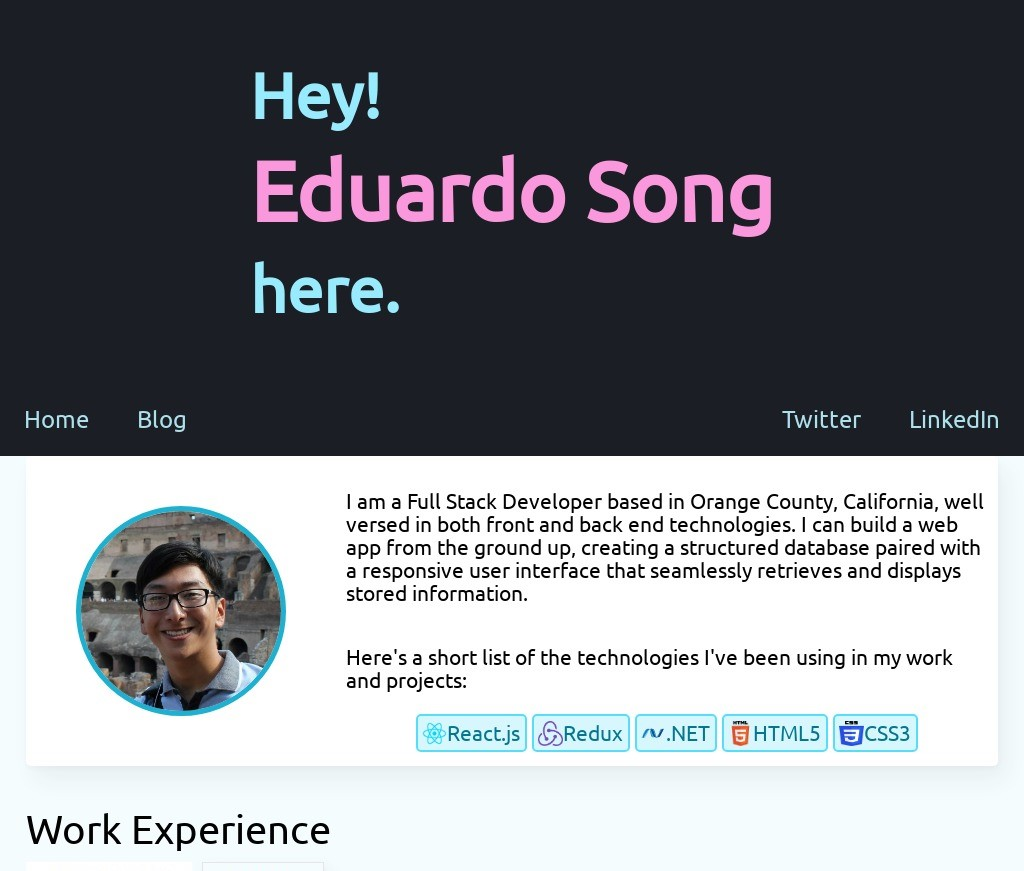
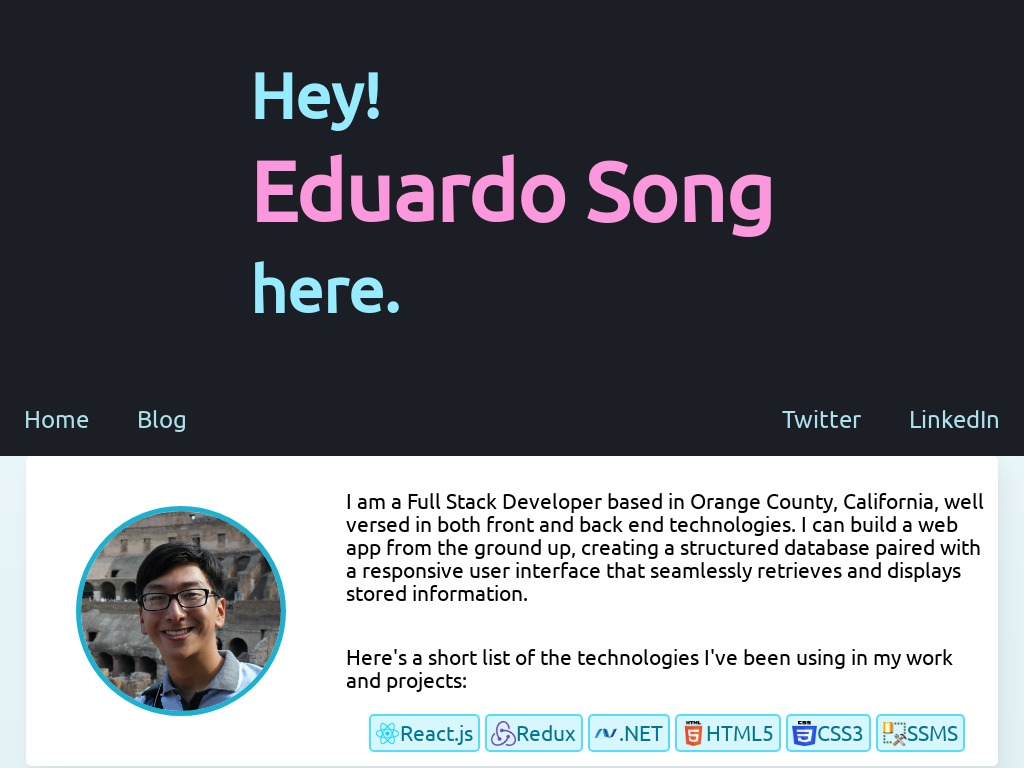
Completed basic projects component, touched up footer

Changed region(s): [[0.0, 0.4688, 1.0, 1.0], [0.25, 0.0625, 0.75, 0.4062]]

diff --git a/src/components/common/projects/projects.jsx b/src/components/common/projects/projects.jsx
@@ -1,7 +1,7 @@
 import React, { Component } from 'react';
 import './projects.css';
 import '../../../App.css'
-import PersWebImg from './edsongweb.jpg'
+// import EdSongWeb from './edsongweb.jpg';
 
 class Projects extends Component {
     render () {
@@ -10,24 +10,39 @@ class Projects extends Component {
                 <div className='animated fadeIn delay-075s content-item'>
                     <p className='content-title'>Projects</p>
                     <div className='project-box'>
-                        <div className='project-item'>
-                            <img href={PersWebImg} alt='eduardo song web site'/>
+                        <div className='animated project-item'>
+                            <div className='project-img'/>
                             <div className="project-title-nav">
                                 <h3>Personal Website</h3>
                                 <ul className='project-nav'>
                                     <li className='proj-nav-item'>
-                                        <a href='/'>Github</a>
+                                        <a href='https://github.com/eduardosong/edsong' target='_blank' rel="noopener noreferrer">Github</a>
                                     </li>
                                     <li className='proj-nav-item'>
-                                        <a href='/'>Live</a>
+                                        <a href='https://dreamy-yonath-b0ccf0.netlify.com/' target='_blank' rel="noopener noreferrer">Live</a>
                                     </li>
                                 </ul>
                             </div>
-                            <p className='project-text'>This is a website I created. This is a website I created. This is a website I created. This is a website I created. This is a website I created. This is a website I created. 
-                            This is a website I created. This is a website I created. This is a website I created. This is a website I created. This is a website I created. This is a website I created. 
+                            <p className='project-text'>The very website you're on. Designed to be simple and sleek while being easy on the eyes. 
                             </p>
+                            <ul className='skills-list'>
+                                <li className='skills-wrap'>
+                                    <img className='skills-icon' src='https://bit.ly/2NWyPFj' alt='logo of reactjs'/>
+                                    <span>React.js</span>
+                                </li>
+                                <li className='skills-wrap'>
+                                    <img className='skills-icon' src='https://bit.ly/2CrLZVu' alt='logo of html5'/>
+                                    <span>HTML5</span>
+                                </li>
+                                <li className='skills-wrap'>
+                                    <img className='skills-icon' src='https://bit.ly/36OM2Zx' alt='logo of css3'/>
+                                    <span>CSS3</span>
+                                </li>
+
+                            </ul>
                         </div>
                     </div>
+                    
                 </div>
             </React.Fragment>
         )

diff --git a/src/App.css b/src/App.css
@@ -13,6 +13,30 @@ background: linear-gradient(180deg, rgba(243,252,255,1) 0%, rgba(207,229,232,1) 
   width: 100%;
 }
 
+.skills-list{
+  display:flex;
+  justify-content: center;
+  flex-wrap:wrap;
+  flex-direction:row;
+}
+
+.skills-icon{
+  height:25px;
+  width: 25px;
+}
+
+.skills-wrap{
+  color: rgb(0, 119, 146);
+  background-color: rgb(216, 246, 253);
+  border-style: solid;
+  border-color: rgb(82, 223, 255);
+  border-width: 1.5px;
+  border-radius: 5px;
+  padding: 5px;
+  display:flex;
+  margin: 2.5px;
+}
+
 .hero{
   background-color: rgb(27,30,37);
   color: rgb(153, 236, 255);
@@ -50,7 +74,7 @@ background: linear-gradient(180deg, rgba(243,252,255,1) 0%, rgba(207,229,232,1) 
   color: rgb(153, 236, 255);
   height: 100px;
   font-weight: 100;
-  justify-content:flex-end;
+  justify-content:center;
   padding-top:30px;
   margin-right: 30px;
 }

diff --git a/src/components/common/about/about.jsx b/src/components/common/about/about.jsx
@@ -9,6 +9,7 @@ class About extends Component {
                 <div className='animated fadeIn delay-075s content-item about'>
                     <img className='portrait' src='portrait.jpg' alt='Eduardo Song portrait'/>
                     <div className="ed-info">
+                        
                         <p className='info-text'>I am a Full Stack Developer based in Orange County, California, well versed in both front and back end technologies. I can build a web app from the ground up, creating a structured database paired with a responsive user interface that seamlessly retrieves and displays stored information. </p>
                         <p className='info-text'>Here's a short list of the technologies I've been using in my work and projects:</p>
                         <ul className='skills-list'>

diff --git a/src/components/common/projects/projects.css b/src/components/common/projects/projects.css
@@ -5,12 +5,29 @@
 
 .project-item{
     background-color:white;
+    max-width: 500px;
+    margin: 10px;
     font-size: 1.3em;
     border-radius: 5px;
     padding: 20px;
     box-shadow: 8px 14px 38px rgba(39, 44, 49, 0.06), 1px 3px 8px rgba(39, 44, 49, 0.03);
     display: flex;
     flex-direction: column;
+    justify-content: center;
+}
+
+.project-img{
+    /* border-color: rgb(111, 189, 199);
+    border-width: 5px;
+    border-style: solid; */
+    min-height: 240px;
+    min-width: 100%;
+    background: url(edsongweb.jpg);
+    /* background-size: 500px; */
+    background-position: center top;
+    background-repeat: no-repeat;
+    background-size: cover;
+    box-shadow: 8px 8px 20px rgb(202, 202, 202);
 }
 
 .project-text{

diff --git a/src/components/common/about/about.css b/src/components/common/about/about.css
@@ -35,27 +35,3 @@
       flex-direction: column;
     }
   }
-  
-  .skills-list{
-    display:flex;
-    justify-content: center;
-    flex-wrap:wrap;
-    flex-direction:row;
-  }
-  
-  .skills-icon{
-    height:25px;
-    width: 25px;
-  }
-  
-  .skills-wrap{
-    color: rgb(0, 119, 146);
-    background-color: rgb(216, 246, 253);
-    border-style: solid;
-    border-color: rgb(82, 223, 255);
-    border-width: 1.5px;
-    border-radius: 5px;
-    padding: 5px;
-    display:flex;
-    margin: 2.5px;
-  }
